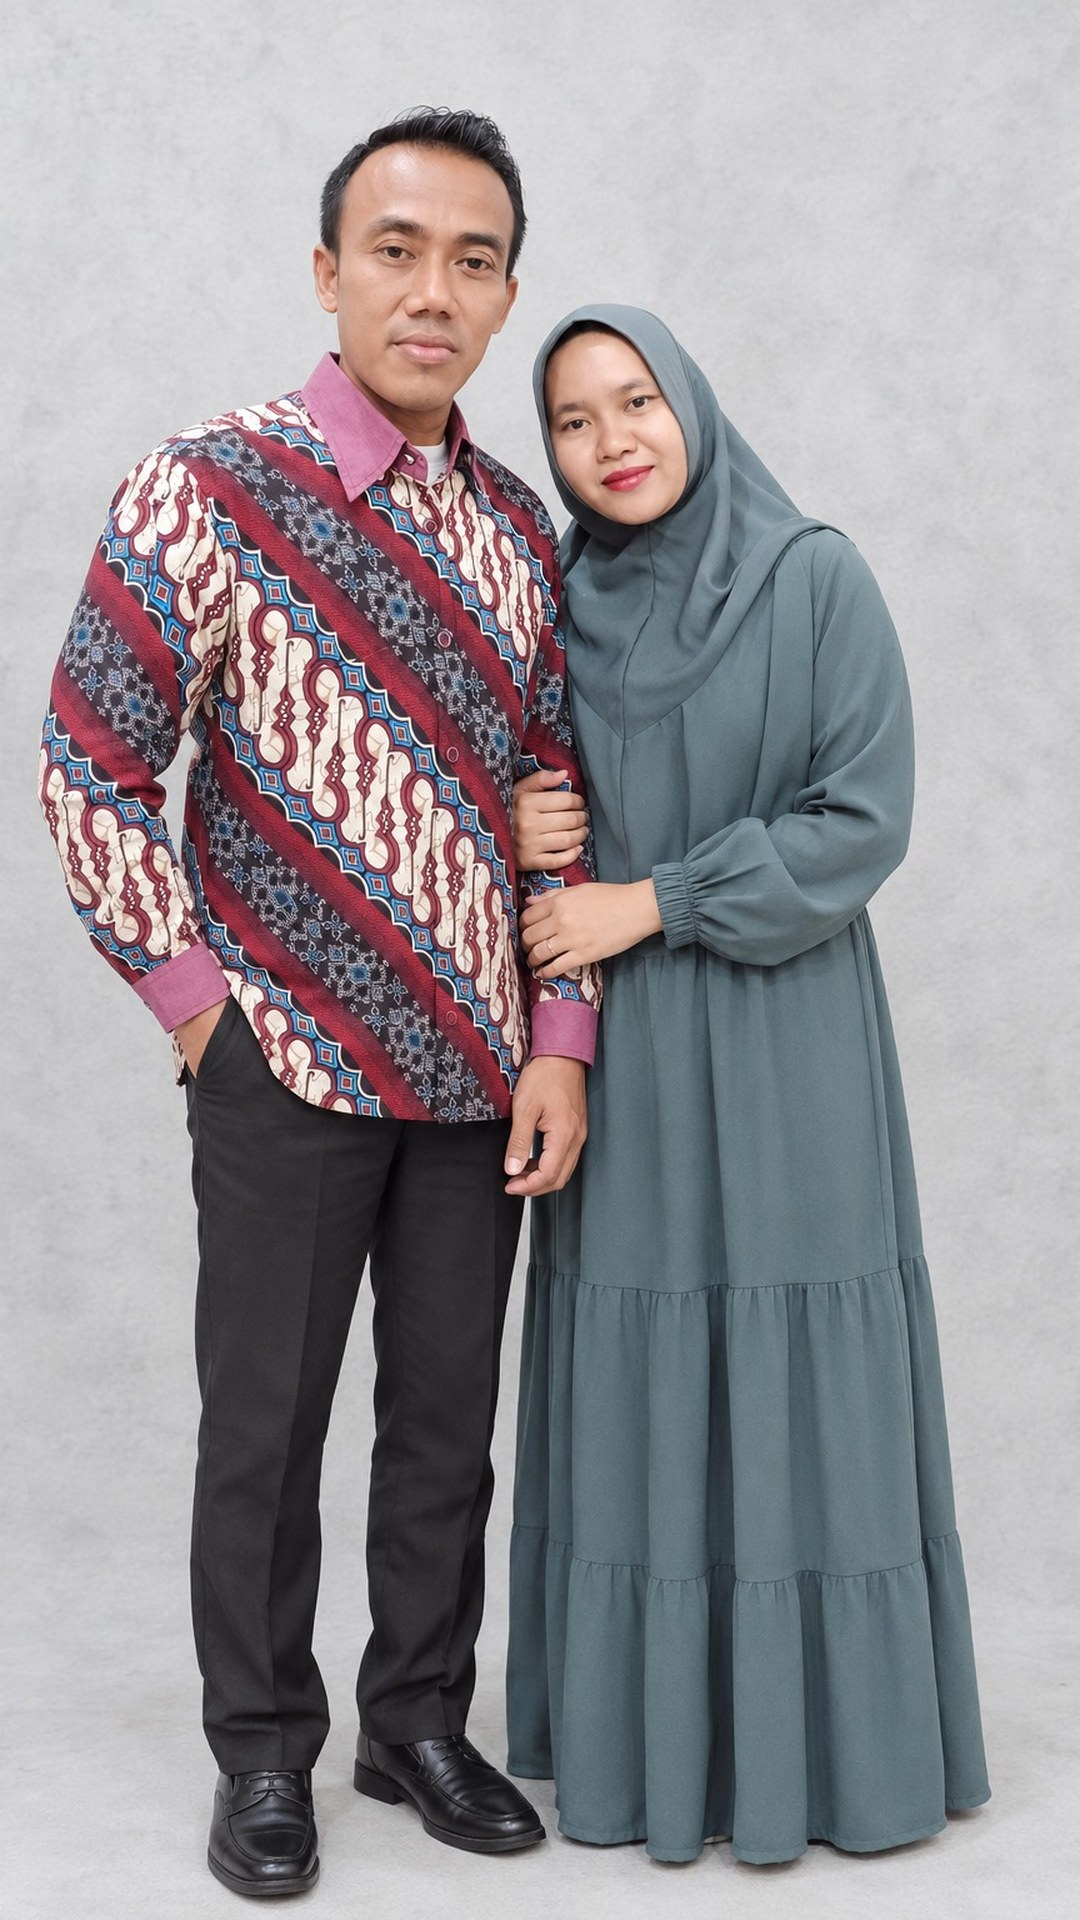
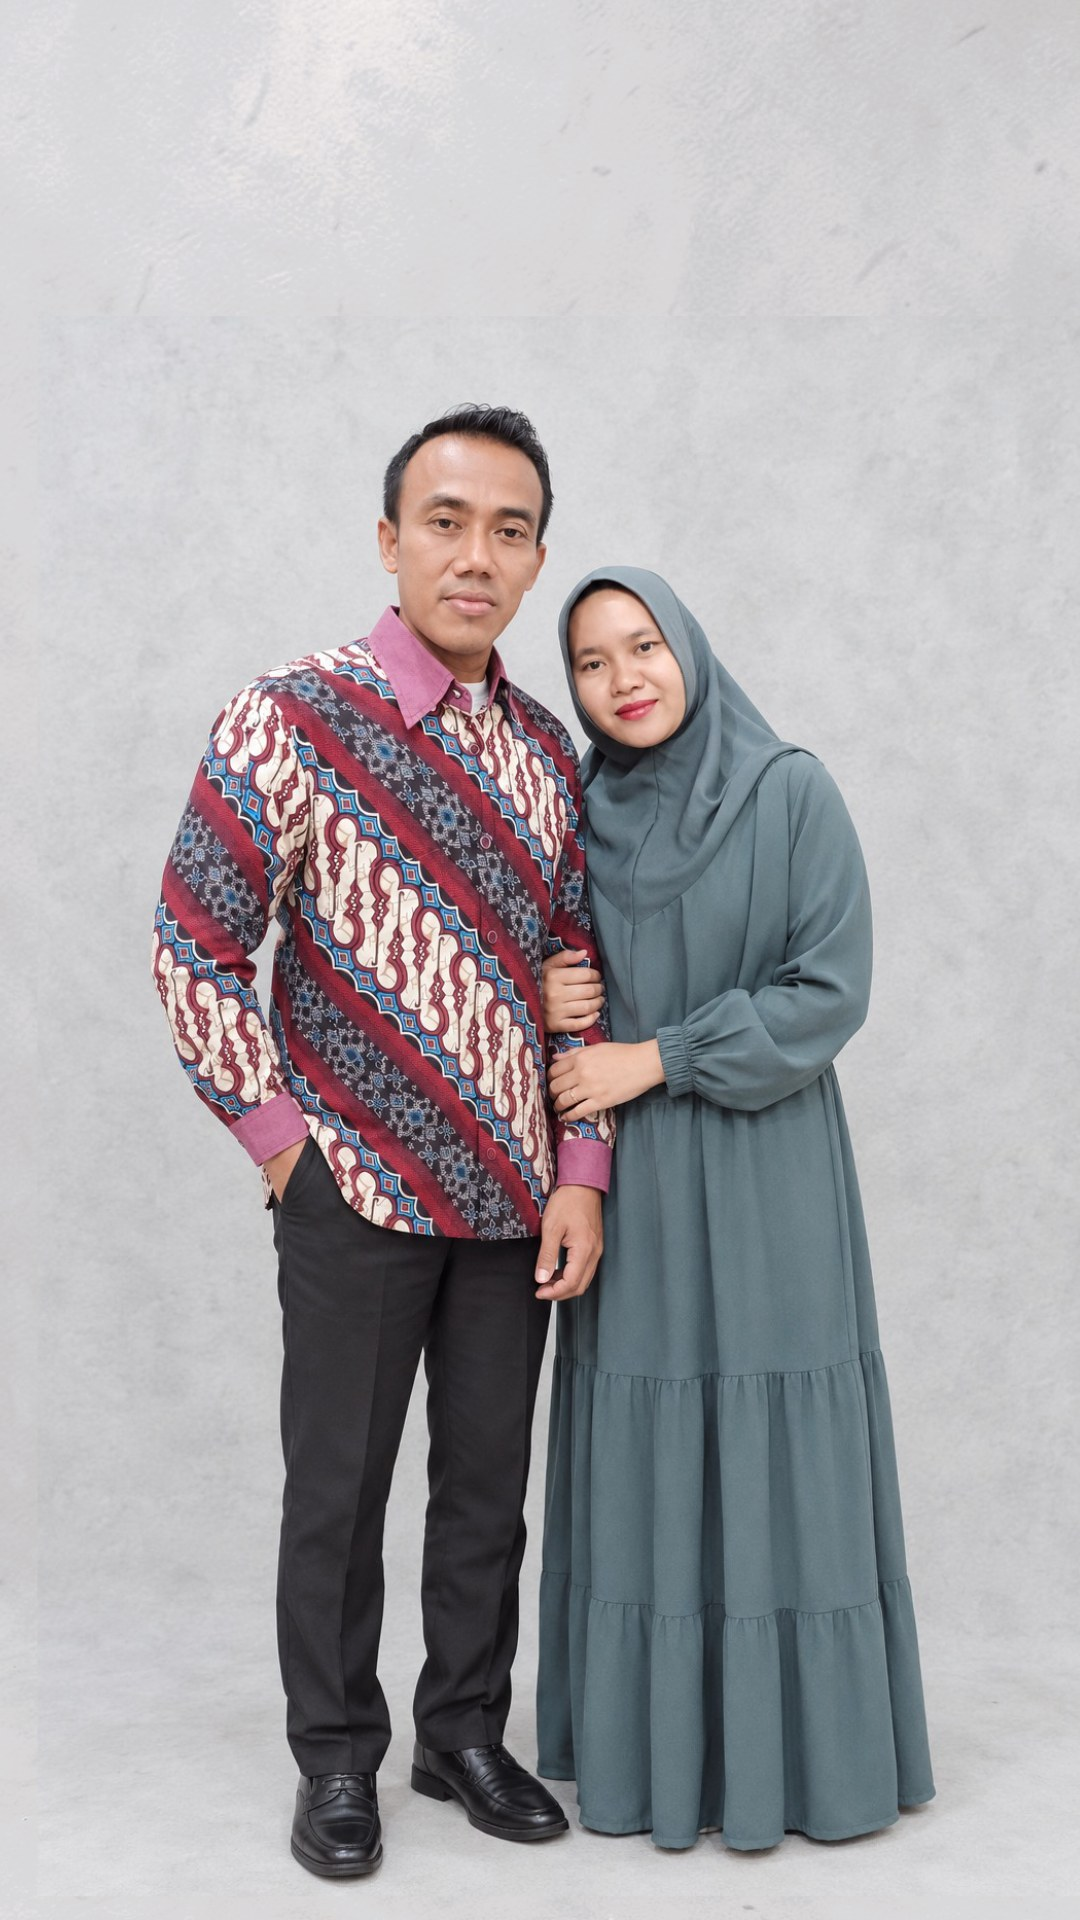
Foto cover: ganti foto update (1080x1920)

diff --git a/index.html b/index.html
@@ -7,14 +7,14 @@
   <meta name="description" content="Undangan The Wedding of Desy &amp; Huan — Windunegara, Wangon, Banyumas, 24–26 November 2026." />
   <meta property="og:title" content="Undangan · Toro &amp; Ria" />
   <meta property="og:description" content="The Wedding of Desy &amp; Huan, 24–26 November 2026 · Windunegara, Wangon, Banyumas" />
-  <meta property="og:image" content="assets/video/cover-last.jpg?v=photo2" />
+  <meta property="og:image" content="assets/video/cover-last.jpg?v=photo3" />
   <meta name="theme-color" content="#FFFFFF" />
   <link rel="preconnect" href="https://fonts.googleapis.com" />
   <link rel="preconnect" href="https://fonts.gstatic.com" crossorigin />
   <link rel="preconnect" href="https://fonts.gstatic.com" crossorigin />
   <link href="https://fonts.googleapis.com/css2?family=Montserrat:wght@300;400;500;600&family=Playfair+Display:ital,wght@1,400;1,500&family=Roboto+Mono:wght@400;500&family=Material+Symbols+Outlined:wght,FILL@100..700,0..1&display=swap" rel="stylesheet" />
   <link href="https://fonts.googleapis.com/css2?family=Cormorant+Garamond:ital,wght@1,400;1,500&family=Jost:wght@400;500;600;700&display=swap" rel="stylesheet" />
-  <link rel="preload" as="image" href="assets/video/cover-last.jpg?v=photo2" />
+  <link rel="preload" as="image" href="assets/video/cover-last.jpg?v=photo3" />
   <link rel="stylesheet" href="assets/css/style.css?v=tasy1" />
 </head>
 <body class="is-locked">
@@ -34,7 +34,7 @@
 
   <!-- ============ COVER ============ -->
   <section id="cover" class="cover" aria-label="Sampul undangan">
-    <img id="coverPhoto" class="cover__photo" src="assets/video/cover-last.jpg?v=photo2" alt="" aria-hidden="true" />
+    <img id="coverPhoto" class="cover__photo" src="assets/video/cover-last.jpg?v=photo3" alt="" aria-hidden="true" />
     <div class="cover__fade" aria-hidden="true"></div>
 
     <header class="cover__head">
